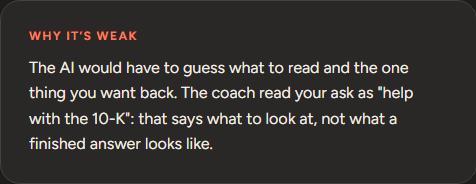
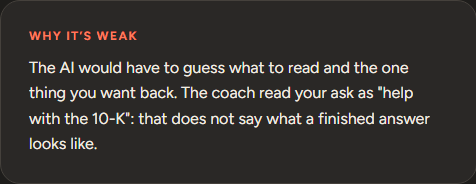
Prompt coach: quote sentence reworded (PM proxy ruling): 'that does not say what a finished answer looks like'; dist, README bytes, spec, quote.png
Claude-Session: https://claude.ai/code/session_012xqQ7n7ws4b6v6v7Z1VWxR

Changed region(s): [[0.3529, 0.5978, 0.9118, 0.7065], [0.0588, 0.7337, 0.4706, 0.8152]]

diff --git a/prompt-coach/dist/prompt-coach.html b/prompt-coach/dist/prompt-coach.html
@@ -1047,7 +1047,7 @@ window.SCOPE_CLS = {"intent":{"labels":["anomaly","checklist","compare","consist
   const VAGUE_ONLY = /^\s*(?:(?:please|pls|can (?:you|u)|could you)\s+)*(?:analy[sz]e|review|look (?:at|over)|go over|check|help(?: me)?(?: with)?|work on|take a look at)\b[^?]*$/i;
   // Quote line: the user's own ask, only for a sentence-opening vague verb (spec 2026-10-20-prompt-coach-quote-line-design.md).
   const QUOTE_LEAD = /(?:^\s*|[.!?\n]\s*|:\s*)(?:(?:hey|hi|ok|so|just|quick(?:ly)?|please|pls|plz|can (?:you|u)|could (?:you|u)|would you|i need (?:you )?to|i want (?:you )?to|need (?:you )?to|want (?:you )?to|i'?d like (?:you )?to)[\s,]+)*$/i;
-  const QUOTE_SAYS = ': that says what to look at, not what a finished answer looks like.';
+  const QUOTE_SAYS = ': that does not say what a finished answer looks like.';
   function askQuote(prompt) {
     const re = new RegExp(VAGUE_VERB.source, 'gi'); let m;
     while ((m = re.exec(prompt))) {

diff --git a/prompt-coach/engine/rewrite.js b/prompt-coach/engine/rewrite.js
@@ -406,7 +406,7 @@
   const VAGUE_ONLY = /^\s*(?:(?:please|pls|can (?:you|u)|could you)\s+)*(?:analy[sz]e|review|look (?:at|over)|go over|check|help(?: me)?(?: with)?|work on|take a look at)\b[^?]*$/i;
   // Quote line: the user's own ask, only for a sentence-opening vague verb (spec 2026-10-20-prompt-coach-quote-line-design.md).
   const QUOTE_LEAD = /(?:^\s*|[.!?\n]\s*|:\s*)(?:(?:hey|hi|ok|so|just|quick(?:ly)?|please|pls|plz|can (?:you|u)|could (?:you|u)|would you|i need (?:you )?to|i want (?:you )?to|need (?:you )?to|want (?:you )?to|i'?d like (?:you )?to)[\s,]+)*$/i;
-  const QUOTE_SAYS = ': that says what to look at, not what a finished answer looks like.';
+  const QUOTE_SAYS = ': that does not say what a finished answer looks like.';
   function askQuote(prompt) {
     const re = new RegExp(VAGUE_VERB.source, 'gi'); let m;
     while ((m = re.exec(prompt))) {

diff --git a/prompt-coach/tests/rewrite_unit.test.js b/prompt-coach/tests/rewrite_unit.test.js
@@ -509,7 +509,7 @@ const withO = (x) => (p) => { const r = detectP(p); return { ...r, prob: { ...r.
 const coachWith = (prompt, det) => W.coach(prompt, { files: [], detect: det, ...C.pick(prompt, CLS) });
 const QUOTED = /The coach read your ask as "/;
 const HELP = 'help with the 10-K';
-const SAYS = ': that says what to look at, not what a finished answer looks like.';
+const SAYS = ': that does not say what a finished answer looks like.';
 const quotedBoth = (o) => QUOTED.test(o.headline) && QUOTED.test(o.stages.weak.verdict);
 const quotedNone = (o) => !QUOTED.test(o.headline) && !QUOTED.test(o.stages.weak.verdict);
 

diff --git a/docs/superpowers/specs/2026-10-20-prompt-coach-quote-line-design.md b/docs/superpowers/specs/2026-10-20-prompt-coach-quote-line-design.md
@@ -13,6 +13,7 @@ Talk 2026-10-20, session "NEW - Prompt Coach quote line talk" (job 04bbd630), fr
   morning list". Proxy decided; Ian may overturn. Recorded in the run ledger's rulings.md.
 - PM proxy for Ian, 2026-10-20T06:04Z, on the card (A quote in the visible headline + stages.weak.verdict agrees (Rec.) / B ship as specced, invisible / C park / D bring back a why-it-fails card): "A. Quote in the visible headline on Your prompt, stages.weak.verdict changed to agree, same span rule and no-gos, drop test reads the headline. Add: capture Your prompt for "help with the 10-K" and for one exclusion case (fingerprinted; I open both and make the look call for Ian's morning block). Put the finding ("the 147-of-430 probe measured a line users never see; the headline names only source and ask") in the evidence doc and the for-Ian list. Make your plan fixes, Codex round 2, then send me the plan card." Proxy decided; Ian may overturn.
 - PM proxy for Ian, 2026-10-20 ~08:10Z (decisions.md), final-review card (A fix task / B merge now / C one-word only / D new sentence): "A, one fix task, then merge. Change to your fallback: if A fails its checks twice, do C alone (one-word span -> no quote) with the same re-measure; if C also fails, do NOT merge a headline that makes a false sentence: leave the branch pushed but unmerged and list all five for Ian. Not B. Same 10% bar on the new rule, by-eye read included; re-capture quote.png only if the headline for "help with the 10-K" changes. Then merge into prompt-coach and push under the merge rule and send me one line." Proxy decided. Recorded in the run ledger's rulings.md (last entry).
+- PM proxy for Ian, ~08:40Z (decisions.md), false-sentence card (A new wording / B merge / C unmerged / D quote alone): "A. New sentence: ' The coach read your ask as "<span>": that does not say what a finished answer looks like.' Your chain stands: more than 4 false of 45 on the by-eye read -> D (quote alone); D fails -> C (pushed, unmerged, listed for Ian). Recapture quote.png, send me its path and sha256, and I will open it before you merge. Stay inside 1.1M." Proxy decided, a wording call Ian may overturn. Recorded in the run ledger rulings.md (last entry).
 
 ## Evidence
 
@@ -66,14 +67,14 @@ example Weak stage shown for a prompt that grades better or strong are unchanged
 
 | Case | Line |
 |---|---|
-| Span found | `The AI has to guess <core>. The coach read your ask as "<span>": that says what to look at, not what a finished answer looks like. It is also missing <rest>.` The quote replaces today's `A verb like "<verb>" does not say what a finished answer looks like.` sentence; `<core>` and `<rest>` are as today. |
-| Span found, headline (amended 06:04Z) | The same quote sentence is appended to today's weak headline: today's headline text + ` The coach read your ask as "<span>": that says what to look at, not what a finished answer looks like.` The headline is what the page shows on "Your prompt". The drop check and criteria 1 and 3 read the headline as well as `stages.weak.verdict`. |
+| Span found | `The AI has to guess <core>. The coach read your ask as "<span>": that does not say what a finished answer looks like. It is also missing <rest>.` The quote replaces today's `A verb like "<verb>" does not say what a finished answer looks like.` sentence; `<core>` and `<rest>` are as today. |
+| Span found, headline (amended 06:04Z) | The same quote sentence is appended to today's weak headline: today's headline text + ` The coach read your ask as "<span>": that does not say what a finished answer looks like.` The headline is what the page shows on "Your prompt". The drop check and criteria 1 and 3 read the headline as well as `stages.weak.verdict`. |
 | No span | Today's line, byte for byte. |
 | Several asks | No change from the two rows above; the existing stacked note ("You are asking for several things at once...") stays the only place that says so. Why: a split rule reaches 13 of 41 stacked prompts and misses a third ask in 6 of those 13. |
 | Source missing | Never quoted; today's wording. Why: 12 of 17 source quotes were the wrong words. |
 
 Example: "help with the 10-K" -> `The AI has to guess what to read and the one thing you want back. The coach read
-your ask as "help with the 10-K": that says what to look at, not what a finished answer looks like. It is also
+your ask as "help with the 10-K": that does not say what a finished answer looks like. It is also
 missing who it is for, a format or scope and a rule about invented facts.` Checked 2026-10-20 with the shipped
 detector: this prompt grades weak with an ask probability of 0.000, and today's line for it is the same with
 `A verb like "help with" does not say what a finished answer looks like.` in the middle.

diff --git a/prompt-coach/README.md b/prompt-coach/README.md
@@ -6,7 +6,7 @@ strong version into toggleable SCOPE elements. Everything runs in the browser: n
 server, no uploads. Built for customer-facing use where Claude access can't be provisioned.
 
 ```sh
-node tests/build.js                      # -> dist/prompt-coach.html (single file, 337790 bytes, LF)
+node tests/build.js                      # -> dist/prompt-coach.html (single file, 337095 bytes, LF)
 node tests/pagetest.js                      # real-browser page test of the built page (notes, display grade, off-topic); build first
 node tests/eval.js rulefeat data/test.jsonl          # accuracy on held-out prompts
 node tests/simulate.js data/train_*.jsonl            # rewrite invariants
